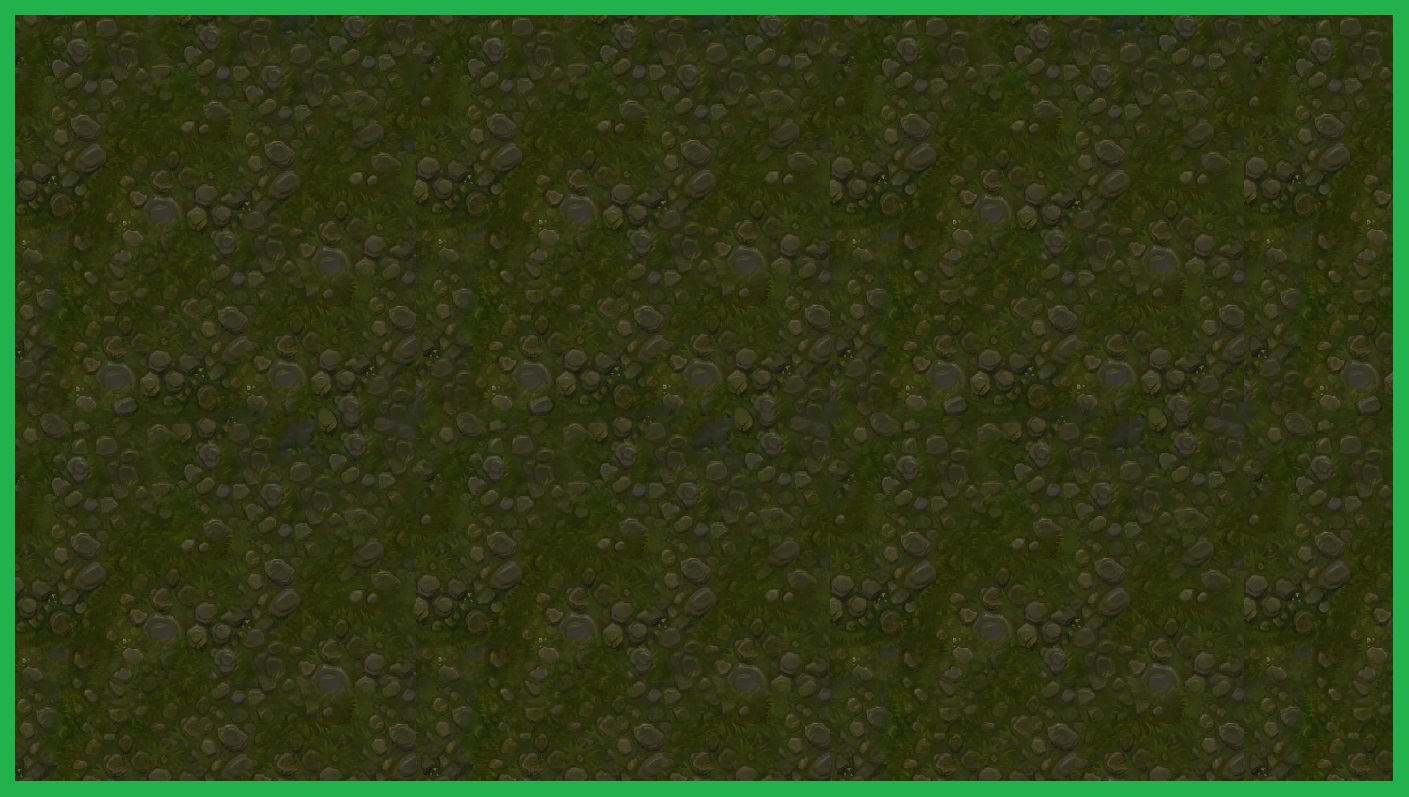
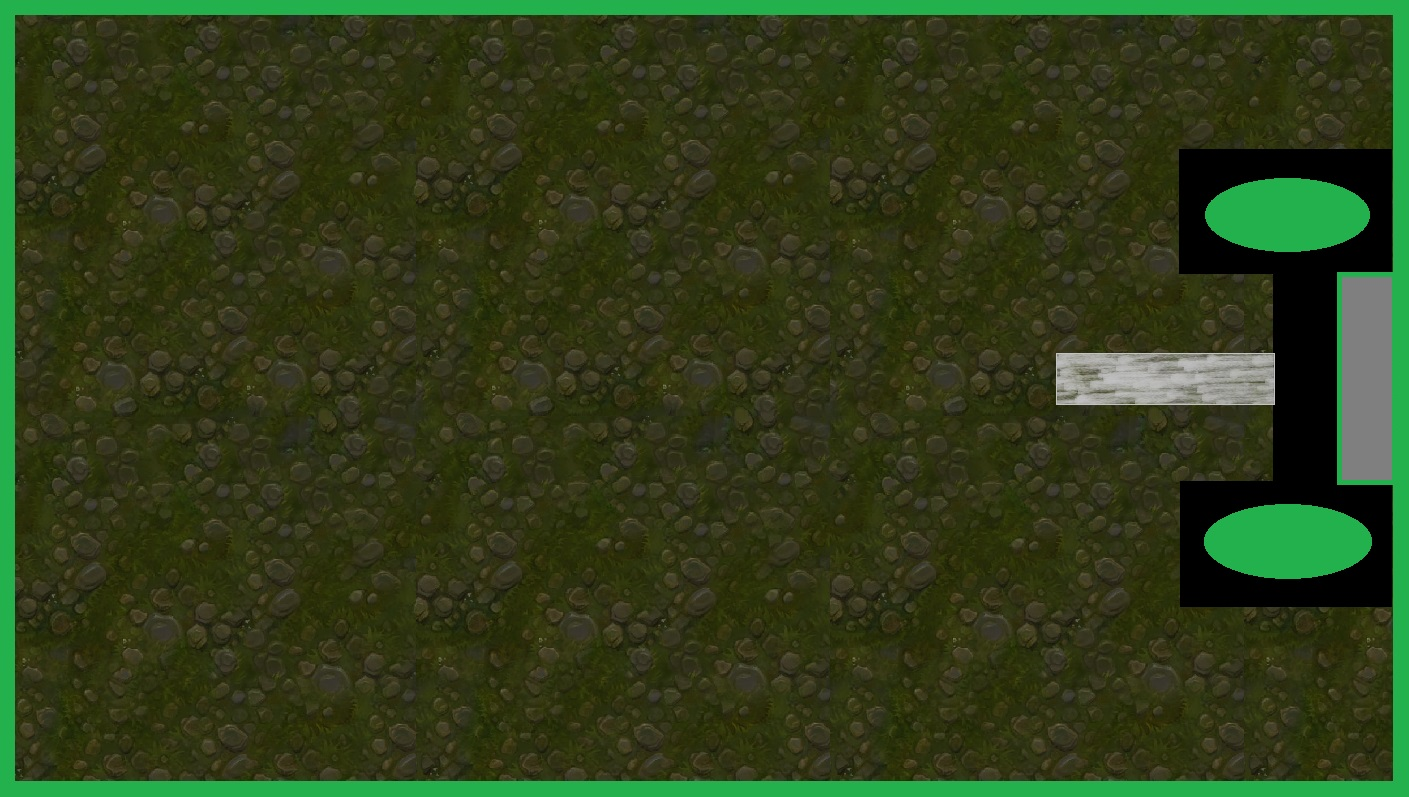
added map 3

Changed region(s): [[0.7495, 0.1807, 0.9993, 0.7829]]

diff --git a/Pointless/src/GGTop.java b/Pointless/src/GGTop.java
@@ -87,17 +87,45 @@ public class GGTop extends OverChar {
 			if (playerX >= maxNegX) playerX = maxNegX;
 			if (playerY <= maxY) playerY = maxY;
 			if (playerY >= maxNegY) playerY = maxNegY;
-			
-			
+
+
 			if (mapState == STATE.Base)
 			{
-				if (playerX >= 3544000.0/1360.0*MainMenu.width && playerY >= 2375000.0/1360.0*MainMenu.width && playerY<= 2500000.0/1360.0*MainMenu.width)	// entering the battle field area
-
+				if (first)
 				{
-					//*****************************************************************************
+					x = (int)(30000.0/1360*MainMenu.width);
+					y = (int)(-871000.0/1360*MainMenu.width);
+					map = LoadImage("basemap.png");
+					System.out.println("start");
+					//first = false;
+					//second = true;
+					size = 25/1600.0*MainMenu.width;
+					maxX = (int)(-555000/1360.0*MainMenu.width);
+					maxNegX =  (int)(3554000.0/1360*MainMenu.width);
+					maxY = (int)(-1110000.0/1360*MainMenu.width);
+					maxNegY = (int)(2954000.0/1360*MainMenu.width);
+					OverChar.playerX=0;
+					OverChar.playerY=0;
+					first = false;
+				}
+				
+				if (playerX >= 3544000.0/1360.0*MainMenu.width && playerY >= 2375000.0/1360.0*MainMenu.width && playerY<= 2500000.0/1360.0*MainMenu.width)	// entering the battle field area
+				{		//*****************************************************************************
 					mapState = STATE.Field;
-					//if (second)
-					//{
+					first = true;
+				}
+
+				if (playerY >= 3061061/scale && playerX >= 1286000/scale && playerX <= 1400347/scale)
+				{
+					mapState = STATE.Cave;
+					first = true;
+				}
+
+			}
+			else if (mapState == STATE.Field)
+			{		
+				if (first)
+				{
 					x = (int)(30000.0/1360*MainMenu.width);
 					y = (int)(-860000.0/1360*MainMenu.width);
 					map = LoadImage("ruckss2.png");
@@ -113,32 +141,26 @@ public class GGTop extends OverChar {
 					int shiftX = (int)(1000/scale);
 					int shiftY = (int)(1000/scale);
 
-
-					if (first = true)
-					{
-						Handler.addObject(new Spawner((int)((shiftX + 400000)/scale), (int)((shiftY + -939000)/scale), ID.Enemy,OverChar.LoadImage("Sp clone.png"), 1.3/scale));
-						Handler.addObject(new Spawner((int)((shiftX + 463000)/scale), (int)((shiftY + 276000)/scale), ID.Enemy,OverChar.LoadImage("Sp clone.png"), 1.3/scale));
-						Handler.addObject(new Spawner((int)((shiftX + 328000)/scale), (int)((shiftY + 2535000)/scale), ID.Enemy,OverChar.LoadImage("Sp clone.png"), 1.3/scale));
-						Handler.addObject(new Spawner((int)((shiftX + 3322000)/scale), (int)((shiftY + -958000)/scale), ID.Enemy,OverChar.LoadImage("Sp clone.png"), 1.3/scale));
-						Handler.addObject(new Spawner((int)((shiftX + 7111000)/scale), (int)((shiftY + -1003000)/scale), ID.Enemy,OverChar.LoadImage("Sp clone.png"),1.3/scale));
-						Handler.addObject(new Spawner((int)((shiftX + 6357000)/scale),(int) ((shiftY + 2736000)/scale), ID.Enemy,OverChar.LoadImage("Sp clone.png"), 1.3/scale));
-						Handler.addObject(new Spawner((int)((shiftX + 5453000)/scale), (int)((shiftY + 542000)/scale), ID.Enemy,OverChar.LoadImage("Sp clone.png"), 1.3/scale));
-
-						first = false;
-					}
-
-					//}
-
-
-
-					//****************************************************************************
-
-
+					Handler.addObject(new Spawner((int)((shiftX + 400000)/scale), (int)((shiftY + -939000)/scale), ID.Enemy,OverChar.LoadImage("Sp clone.png"), 1.3/scale));
+					Handler.addObject(new Spawner((int)((shiftX + 463000)/scale), (int)((shiftY + 276000)/scale), ID.Enemy,OverChar.LoadImage("Sp clone.png"), 1.3/scale));
+					Handler.addObject(new Spawner((int)((shiftX + 328000)/scale), (int)((shiftY + 2535000)/scale), ID.Enemy,OverChar.LoadImage("Sp clone.png"), 1.3/scale));
+					Handler.addObject(new Spawner((int)((shiftX + 3322000)/scale), (int)((shiftY + -958000)/scale), ID.Enemy,OverChar.LoadImage("Sp clone.png"), 1.3/scale));
+					Handler.addObject(new Spawner((int)((shiftX + 7111000)/scale), (int)((shiftY + -1003000)/scale), ID.Enemy,OverChar.LoadImage("Sp clone.png"),1.3/scale));
+					Handler.addObject(new Spawner((int)((shiftX + 6357000)/scale),(int) ((shiftY + 2736000)/scale), ID.Enemy,OverChar.LoadImage("Sp clone.png"), 1.3/scale));
+					Handler.addObject(new Spawner((int)((shiftX + 5453000)/scale), (int)((shiftY + 542000)/scale), ID.Enemy,OverChar.LoadImage("Sp clone.png"), 1.3/scale));
+					first = false;
 				}
 
-				if (playerY >= 3061061/scale && playerX >= 1286000/scale && playerX <= 1400347/scale)
+				if (playerX <= 8164000/1600.0*MainMenu.width && playerX >= 8300000/1600.0*MainMenu.width && playerY >= 2654000/1600.0*MainMenu.width && playerY <= 2324000/1600.0*MainMenu.width)	// returning to the main area
 				{
-					mapState = STATE.Cave;
+					mapState = STATE.Base;
+					first = true;
+				}
+			}
+			else if (mapState == STATE.Cave)
+			{
+				if(first)
+				{
 					//if (second)
 					//{
 					x = (int)(30000.0/1360*MainMenu.width);
@@ -152,61 +174,8 @@ public class GGTop extends OverChar {
 					maxY =(int)(-827293/1360.0*MainMenu.width);
 					maxNegY = (int)(3002948/1360.0*MainMenu.width);
 					OverChar.playerX=0;
-
-					
-					if (third = true)
-					{
-						Handler.addObject(new NGSpawner((int)(3706347/scale), (int)(1151818/scale), ID.Enemy,OverChar.LoadImage("Sp clone.png"), 5/scale));
-						third = false;
-					}
-
-				}
-
-			}
-			else if (mapState == STATE.Field)
-			{		
-				//System.out.println("delay" + delay);
-
-				/*if(delay==0)
-			{	
-				delay = (int)(Math.random() * 1200.0);
-				//96x96
-				//for (int w = 0; w > 10; w++)
-				//{
-				ranX = (int) (Math.random() * MainMenu.width -96)*1000;
-				ranY = (int) (Math.random() * MainMenu.height -96)*1000;
-				Handler.addObject(new RandomSpawner(ranX,ranY,ID.RandomEnemy,LoadImage("bad guy clone.gif") ,96.0));
-				System.out.println("Spawned" + ranX + ranY);
-				//}
-			}
-			else
-			{
-				delay--;
-			}*/
-
-				if (playerX <= 8164000/1600.0*MainMenu.width && playerX >= 8300000/1600.0*MainMenu.width && playerY >= 2654000/1600.0*MainMenu.width && playerY <= 2324000/1600.0*MainMenu.width)	// returning to the main area
-				{
-					//****************************************************************************
-
-					mapState = STATE.Base;
-
-					//if (first)
-					//{
-					x = (int)(30000.0/1360*MainMenu.width);
-					y = (int)(-871000.0/1360*MainMenu.width);
-					map = LoadImage("basemap.png");
-					System.out.println("start");
-					//first = false;
-					//second = true;
-					size = 25/1600.0*MainMenu.width;
-					maxX = (int)(-555000/1360.0*MainMenu.width);
-					maxNegX =  (int)(3554000.0/1360*MainMenu.width);
-					maxY = (int)(-1110000.0/1360*MainMenu.width);
-					maxNegY = (int)(2954000.0/1360*MainMenu.width);
-					OverChar.playerX=0;
-					OverChar.playerY=0;
-
-					//}
+					Handler.addObject(new NGSpawner((int)(3706347/scale), (int)(1151818/scale), ID.Enemy,OverChar.LoadImage("Sp clone.png"), 5/scale));
+					first = false;
 				}
 			}
 		}

diff --git a/Pointless/src/NGSpawner.java b/Pointless/src/NGSpawner.java
@@ -3,37 +3,65 @@ import java.awt.image.BufferedImage;
 public class NGSpawner extends OverChar{
 
 	boolean spawn = true;
-	int delay = 1;
+	int delay = 0;
+	int ranX;
+	int ranY;
 	public NGSpawner(int x, int y, ID id, BufferedImage map, double size) {
 		super(x, y, id, map, size);
 		// TODO Auto-generated constructor stub
-		health = 500;
-		collisionDamage = 25;
+		health = 100;
+		collisionDamage = 0;
 		imageX = map.getWidth()*size/1280.0*MainMenu.width*150;
 		imageY = map.getHeight()*size/1280.0*MainMenu.width*150;
 	}
 
 	@Override
 	public void tick() {
+		
 		if (spawn)
 		{
-			delay--;
-			if (delay == 0)
-			{
-				Handler.addObject(new RandomSpawner(x,y,ID.Enemy,LoadImage("NGtop.png"),3.5));
-				delay = 400;
+			if(delay == 0)
+				//
+			{	
+				delay = (int)(Math.random() * 1200.0);
+				System.out.println("delay" + delay);
+				//96x96
+				//for (int w = 0; w > 10; w++)
+				//{
+				ranX = (int) (Math.random() * MainMenu.width -96)*1000;
+				ranY = (int) (Math.random() * MainMenu.height -96)*1000;
+				
+				if (RandomSpawner.rage <=9)
+				{
+					Handler.addObject(new RandomSpawner(ranX,ranY,ID.Enemy,LoadImage("NGtop clone clone.gif") ,2.0));
+					System.out.println("Spawned 0");
+				}
+				else if (RandomSpawner.rage >=12)
+				{
+					Handler.addObject(new RandomSpawner(ranX,ranY,ID.Enemy,LoadImage("NGtopRage.png") ,2.0));
+					System.out.println("Spawned 10");
+				}
+				//Handler.addObject(new RandomSpawner(ranX,ranY,ID.Enemy,LoadImage("RandomMinion.png") ,2.0));
+				//System.out.println("Spawned");
+				
 			}
+			else
+			{
+				delay--;
+			}
+			//}
 		}		
-		if(health== 36){
+		if(health== health/2){
 			map = OverChar.LoadImage("SP clone (1).png");			
 		}
 		
-		if(health==18){
+		if(health==health/4){
 			map = OverChar.LoadImage("SP clone (2).png");			
 		}
 		
-		if(health<=0){
+		if(health<= 0){
 			spawn = false;
+			collisionDamage = 0;
 			map = OverChar.LoadImage("SP clone (3).png");			
 		}
 		
